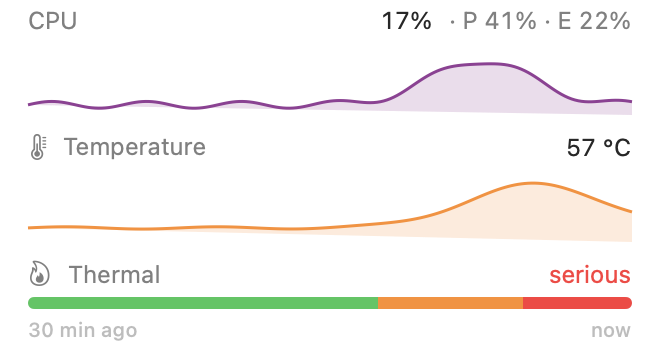
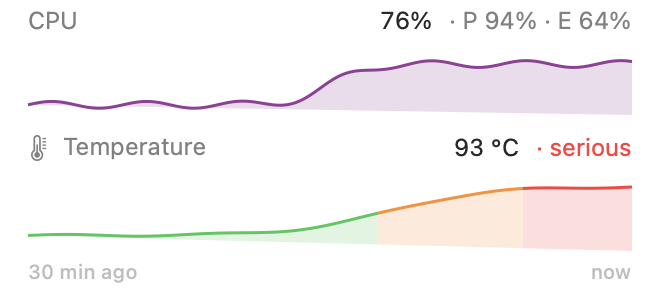
Color the temperature chart by thermal state instead of a separate band
The temperature chart and the thermal band showed heat twice. The
temperature chart is now colored by the thermal state at each moment,
the current state sits next to the temperature, and the band only
appears when there are no temperature sensors, such as on Intel. The
temperature chart color setting is gone, since the thermal state sets
that color now.

The demo data now shows load that climbs and stays high while the
temperature follows it into throttling.

diff --git a/Sources/MacVitals/Views/SystemTab.swift b/Sources/MacVitals/Views/SystemTab.swift
@@ -164,26 +164,30 @@ private struct CPUThermalHistory: View {
                 .padding(.bottom, 4)
 
             if let temperature = state.temperature {
+                // The thermal state colors the temperature chart, so there's no separate band.
                 HStack {
                     Label("Temperature", systemImage: "thermometer.medium").foregroundStyle(.secondary)
                     Spacer()
                     Text(Format.temperature(temperature, unit: settings.temperatureUnit))
                         .monospacedDigit()
                         .help("Hottest SoC die sensor")
+                    Text("· \(state.thermalState.label)")
+                        .foregroundStyle(settings.color(for: state.thermalState))
                 }
                 HistoryChart(points: state.temperatureHistory, now: now, range: Self.temperatureRange,
-                             style: settings.chartStyle, color: settings.temperatureChartColor.color)
-                    .frame(height: 36)
-                    .padding(.bottom, 4)
+                             style: settings.chartStyle, color: settings.color(for: state.thermalState),
+                             tint: thermalTint(now: now))
+                    .frame(height: 40)
+            } else {
+                // No temperature sensors (e.g. Intel): show the thermal state as a band instead.
+                HStack {
+                    Label("Thermal", systemImage: "flame").foregroundStyle(.secondary)
+                    Spacer()
+                    Text(state.thermalState.label).foregroundStyle(settings.color(for: state.thermalState))
+                }
+                ThermalBand(history: state.thermalHistory, now: now, settings: settings)
+                    .frame(height: 6)
             }
-
-            HStack {
-                Label("Thermal", systemImage: "flame").foregroundStyle(.secondary)
-                Spacer()
-                Text(state.thermalState.label).foregroundStyle(settings.color(for: state.thermalState))
-            }
-            ThermalBand(history: state.thermalHistory, now: now, settings: settings)
-                .frame(height: 6)
             HStack {
                 Text("30 min ago")
                 Spacer()
@@ -194,6 +198,22 @@ private struct CPUThermalHistory: View {
         }
         .accessibilityElement(children: .combine)
     }
+
+    /// One colored time span per thermal state, from the thermal history.
+    private func thermalTint(now: Date) -> [ChartTint] {
+        let history = state.thermalHistory
+        return history.indices.map { i in
+            ChartTint(from: history[i].date,
+                      to: i + 1 < history.count ? history[i + 1].date : now,
+                      color: state.settings.color(for: history[i].state))
+        }
+    }
+}
+
+struct ChartTint {
+    let from: Date
+    let to: Date
+    let color: Color
 }
 
 /// A 30-minute history drawn as an area, a line, or bars. Gaps longer than a minute (sleep) break
@@ -204,24 +224,49 @@ private struct HistoryChart: View {
     let range: ClosedRange<Double>
     let style: ChartStyle
     let color: Color
+    /// Optional time spans that recolor the chart, e.g. by thermal state. Without them, `color` is used.
+    var tint: [ChartTint] = []
 
     private static let barCount = 60
 
     var body: some View {
         GeometryReader { geo in
+            if tint.isEmpty {
+                chart(color: color, size: geo.size)
+            } else {
+                ZStack(alignment: .topLeading) {
+                    ForEach(tint.indices, id: \.self) { i in
+                        let x = self.x(tint[i].from, width: geo.size.width)
+                        let width = max(self.x(tint[i].to, width: geo.size.width) - x, 0)
+                        chart(color: tint[i].color, size: geo.size)
+                            .mask(alignment: .topLeading) {
+                                Rectangle().frame(width: width, height: geo.size.height).offset(x: x)
+                            }
+                    }
+                }
+            }
+        }
+    }
+
+    private func x(_ date: Date, width: CGFloat) -> CGFloat {
+        min(max(date.timeIntervalSince(start) / ThermalMonitor.window, 0), 1) * width
+    }
+
+    @ViewBuilder private func chart(color: Color, size: CGSize) -> some View {
+        ZStack {
             switch style {
             case .area, .line:
-                let segments = self.segments(in: geo.size)
+                let segments = self.segments(in: size)
                 ZStack {
                     ForEach(segments.indices, id: \.self) { i in
                         if style == .area {
-                            area(segments[i], height: geo.size.height).fill(color.opacity(0.18))
+                            area(segments[i], height: size.height).fill(color.opacity(0.18))
                         }
                         line(segments[i]).stroke(color, style: StrokeStyle(lineWidth: 1.5, lineJoin: .round))
                     }
                 }
             case .bars:
-                bars(in: geo.size).fill(color.opacity(0.85))
+                bars(in: size).fill(color.opacity(0.85))
             }
         }
     }

diff --git a/Sources/MacVitals/Settings.swift b/Sources/MacVitals/Settings.swift
@@ -66,13 +66,11 @@ final class Settings {
     static let brewIntervals = [1, 3, 6, 12, 24]
     private static let defaults: [StatusDot: DotColor] = [.normal: .green, .throttling: .red, .brew: .blue]
     static let defaultCPUChartColor = ChartColor.accent
-    static let defaultTemperatureChartColor = ChartColor.dot(.orange)
 
     var colors: [StatusDot: DotColor] { didSet { save() } }
     var brewIntervalHours: Int { didSet { save() } }
     var chartStyle: ChartStyle { didSet { save() } }
     var cpuChartColor: ChartColor { didSet { save() } }
-    var temperatureChartColor: ChartColor { didSet { save() } }
     var temperatureUnit: TemperatureUnit { didSet { save() } }
 
     init() {
@@ -84,8 +82,6 @@ final class Settings {
         brewIntervalHours = Self.brewIntervals.contains(hours) ? hours : 6
         chartStyle = store.string(forKey: "chartStyle").flatMap(ChartStyle.init) ?? .area
         cpuChartColor = store.string(forKey: "chartColor.cpu").flatMap(ChartColor.init) ?? Self.defaultCPUChartColor
-        temperatureChartColor = store.string(forKey: "chartColor.temperature").flatMap(ChartColor.init)
-            ?? Self.defaultTemperatureChartColor
         temperatureUnit = store.string(forKey: "temperatureUnit").flatMap(TemperatureUnit.init) ?? .celsius
     }
 
@@ -96,7 +92,6 @@ final class Settings {
     func resetCharts() {
         chartStyle = .area
         cpuChartColor = Self.defaultCPUChartColor
-        temperatureChartColor = Self.defaultTemperatureChartColor
         temperatureUnit = .celsius
     }
 
@@ -106,7 +101,6 @@ final class Settings {
         store.set(brewIntervalHours, forKey: "brewIntervalHours")
         store.set(chartStyle.rawValue, forKey: "chartStyle")
         store.set(cpuChartColor.rawValue, forKey: "chartColor.cpu")
-        store.set(temperatureChartColor.rawValue, forKey: "chartColor.temperature")
         store.set(temperatureUnit.rawValue, forKey: "temperatureUnit")
     }
 }

diff --git a/Sources/MacVitals/AppState.swift b/Sources/MacVitals/AppState.swift
@@ -128,14 +128,14 @@ final class AppState {
         let window = ThermalMonitor.window
         cpuHistory = stride(from: window, through: 0, by: -10).map { ago in
             let t = 1 - ago / window
-            let spike = exp(-pow((t - 0.75) / 0.12, 2)) * 0.65
-            return HistoryPoint(date: now.addingTimeInterval(-ago), value: min(0.12 + spike + 0.05 * sin(t * 40), 1))
+            let load = 0.6 / (1 + exp(-(t - 0.5) / 0.03))
+            return HistoryPoint(date: now.addingTimeInterval(-ago), value: min(0.12 + load + 0.05 * sin(t * 40), 1))
         }
-        // The die heats up after the load and cools down more slowly.
+        // The die heats up after the load starts and keeps climbing towards throttling.
         temperatureHistory = stride(from: window, through: 0, by: -10).map { ago in
             let t = 1 - ago / window
-            let heat = exp(-pow((t - 0.84) / 0.16, 2)) * 58
-            return HistoryPoint(date: now.addingTimeInterval(-ago), value: 36 + heat + 1.5 * sin(t * 25))
+            let heat = 58 / (1 + exp(-(t - 0.6) / 0.08))
+            return HistoryPoint(date: now.addingTimeInterval(-ago), value: 36 + heat + 1.2 * sin(t * 25))
         }
         temperature = temperatureHistory.last?.value
         thermalHistory = [
@@ -144,7 +144,7 @@ final class AppState {
             ThermalEvent(date: now.addingTimeInterval(-window * 0.18), state: .serious),
         ]
         thermalState = .serious
-        cpu = CPUSample(total: cpuHistory.last?.value ?? 0, performance: 0.41, efficiency: 0.22)
+        cpu = CPUSample(total: cpuHistory.last?.value ?? 0, performance: 0.94, efficiency: 0.64)
 
         let gb: UInt64 = 1 << 30, mb: UInt64 = 1 << 20
         memory = MemorySample(used: gb * 112 / 10, total: 16 * gb, swapUsed: gb * 8 / 10, pressure: .normal)

diff --git a/Sources/MacVitals/Views/SettingsView.swift b/Sources/MacVitals/Views/SettingsView.swift
@@ -27,8 +27,7 @@ struct SettingsView: View {
                     ForEach(ChartStyle.allCases) { Text($0.title).tag($0) }
                 }
             }
-            SwatchRow(title: "CPU", options: chartOptions, selection: chartBinding(\.cpuChartColor))
-            SwatchRow(title: "Temperature", options: chartOptions, selection: chartBinding(\.temperatureChartColor))
+            SwatchRow(title: "CPU color", options: chartOptions, selection: chartBinding(\.cpuChartColor))
             LabeledRow(title: "Unit") {
                 Picker("Unit", selection: $settings.temperatureUnit) {
                     ForEach(TemperatureUnit.allCases) { Text($0.symbol).tag($0) }

diff --git a/README.md b/README.md
@@ -7,7 +7,7 @@ A small menu bar app for MacBooks, built for fanless Airs. It shows system load,
     <td align="center" valign="top">
       <picture>
         <source media="(prefers-color-scheme: dark)" srcset="docs/screenshots/system-dark.png">
-        <img src="docs/screenshots/system-light.png" width="270" alt="System tab: CPU history chart above the thermal band, memory, top processes, battery, disk and network">
+        <img src="docs/screenshots/system-light.png" width="270" alt="System tab: CPU history chart above a temperature chart colored by thermal state, memory, top processes, battery, disk and network">
       </picture>
     </td>
     <td align="center" valign="top">
@@ -35,7 +35,7 @@ A small menu bar app for MacBooks, built for fanless Airs. It shows system load,
 ## Requirements
 
 - macOS 14 (Sonoma) or newer
-- Apple Silicon. Intel Macs work too, but the CPU line shows a meaningless "E 0%" and there is no temperature chart.
+- Apple Silicon. Intel Macs work too, but the CPU line shows a meaningless "E 0%" and the thermal state shows as a colored band instead of a temperature chart.
 - The Command Line Tools (`xcode-select --install`). You don't need Xcode.
 - [Homebrew](https://brew.sh) for the Brew tab. Without it, the tab shows a message and the rest of the app works normally.
 
@@ -73,7 +73,7 @@ Click the dots to open the dashboard.
 
 - **System:**
   - CPU load, split into performance and efficiency cores
-  - a 30-minute history: CPU load, then chip temperature, then the thermal state band, all on the same time axis, so you can see which load heated the Mac and when macOS started throttling
+  - a 30-minute history: CPU load above chip temperature, on the same time axis. The temperature chart is colored by the thermal state (green, amber, red), so you can see which load heated the Mac and when macOS started throttling.
   - memory used and swap
   - the top five processes
   - battery and power draw
@@ -85,7 +85,7 @@ Click the dots to open the dashboard.
   - The tab is read only. Run `brew upgrade` in your terminal to update.
 - **Settings** (gear icon):
   - dot colors
-  - chart style (area, line or bars), chart colors, and °C or °F
+  - chart style (area, line or bars), the CPU chart color, and °C or °F
   - how often to check Homebrew (1–24 hours, 6 by default)
   - launch at login
 
@@ -98,19 +98,19 @@ Pick a style in Settings › Charts. It applies to both charts. Area is the defa
     <td align="center" valign="top">
       <picture>
         <source media="(prefers-color-scheme: dark)" srcset="docs/screenshots/chart-styles/area-dark.png">
-        <img src="docs/screenshots/chart-styles/area-light.png" width="270" alt="Area style: CPU and temperature history above the thermal band">
+        <img src="docs/screenshots/chart-styles/area-light.png" width="270" alt="Area style: CPU history above the temperature history colored by thermal state">
       </picture>
     </td>
     <td align="center" valign="top">
       <picture>
         <source media="(prefers-color-scheme: dark)" srcset="docs/screenshots/chart-styles/line-dark.png">
-        <img src="docs/screenshots/chart-styles/line-light.png" width="270" alt="Line style: CPU and temperature history above the thermal band">
+        <img src="docs/screenshots/chart-styles/line-light.png" width="270" alt="Line style: CPU history above the temperature history colored by thermal state">
       </picture>
     </td>
     <td align="center" valign="top">
       <picture>
         <source media="(prefers-color-scheme: dark)" srcset="docs/screenshots/chart-styles/bars-dark.png">
-        <img src="docs/screenshots/chart-styles/bars-light.png" width="270" alt="Bars style: CPU and temperature history above the thermal band">
+        <img src="docs/screenshots/chart-styles/bars-light.png" width="270" alt="Bars style: CPU history above the temperature history colored by thermal state">
       </picture>
     </td>
   </tr>
@@ -143,7 +143,7 @@ The last line removes your saved settings.
 
 ## How it measures
 
-- **Throttling:** `ProcessInfo.thermalState`, the public signal macOS uses when it limits performance. `serious` and `critical` count as throttling. `fair` shows as amber in the dashboard only.
+- **Throttling:** `ProcessInfo.thermalState`, the public signal macOS uses when it limits performance. `serious` and `critical` count as throttling. `fair` shows as amber in the dashboard only. The thermal state colors the temperature chart.
 - **CPU:** per-core tick deltas from `host_processor_info`. On Apple Silicon the efficiency cores come first.
 - **Temperature:** the hottest of the chip's die sensors (`PMU tdie…`), read through IOKit's HID event system. The chart's scale is fixed at 20–110 °C, so it shows how much headroom is left before throttling.
 - **Memory:** app memory + wired + compressed, the same as Activity Monitor's "Memory Used".
